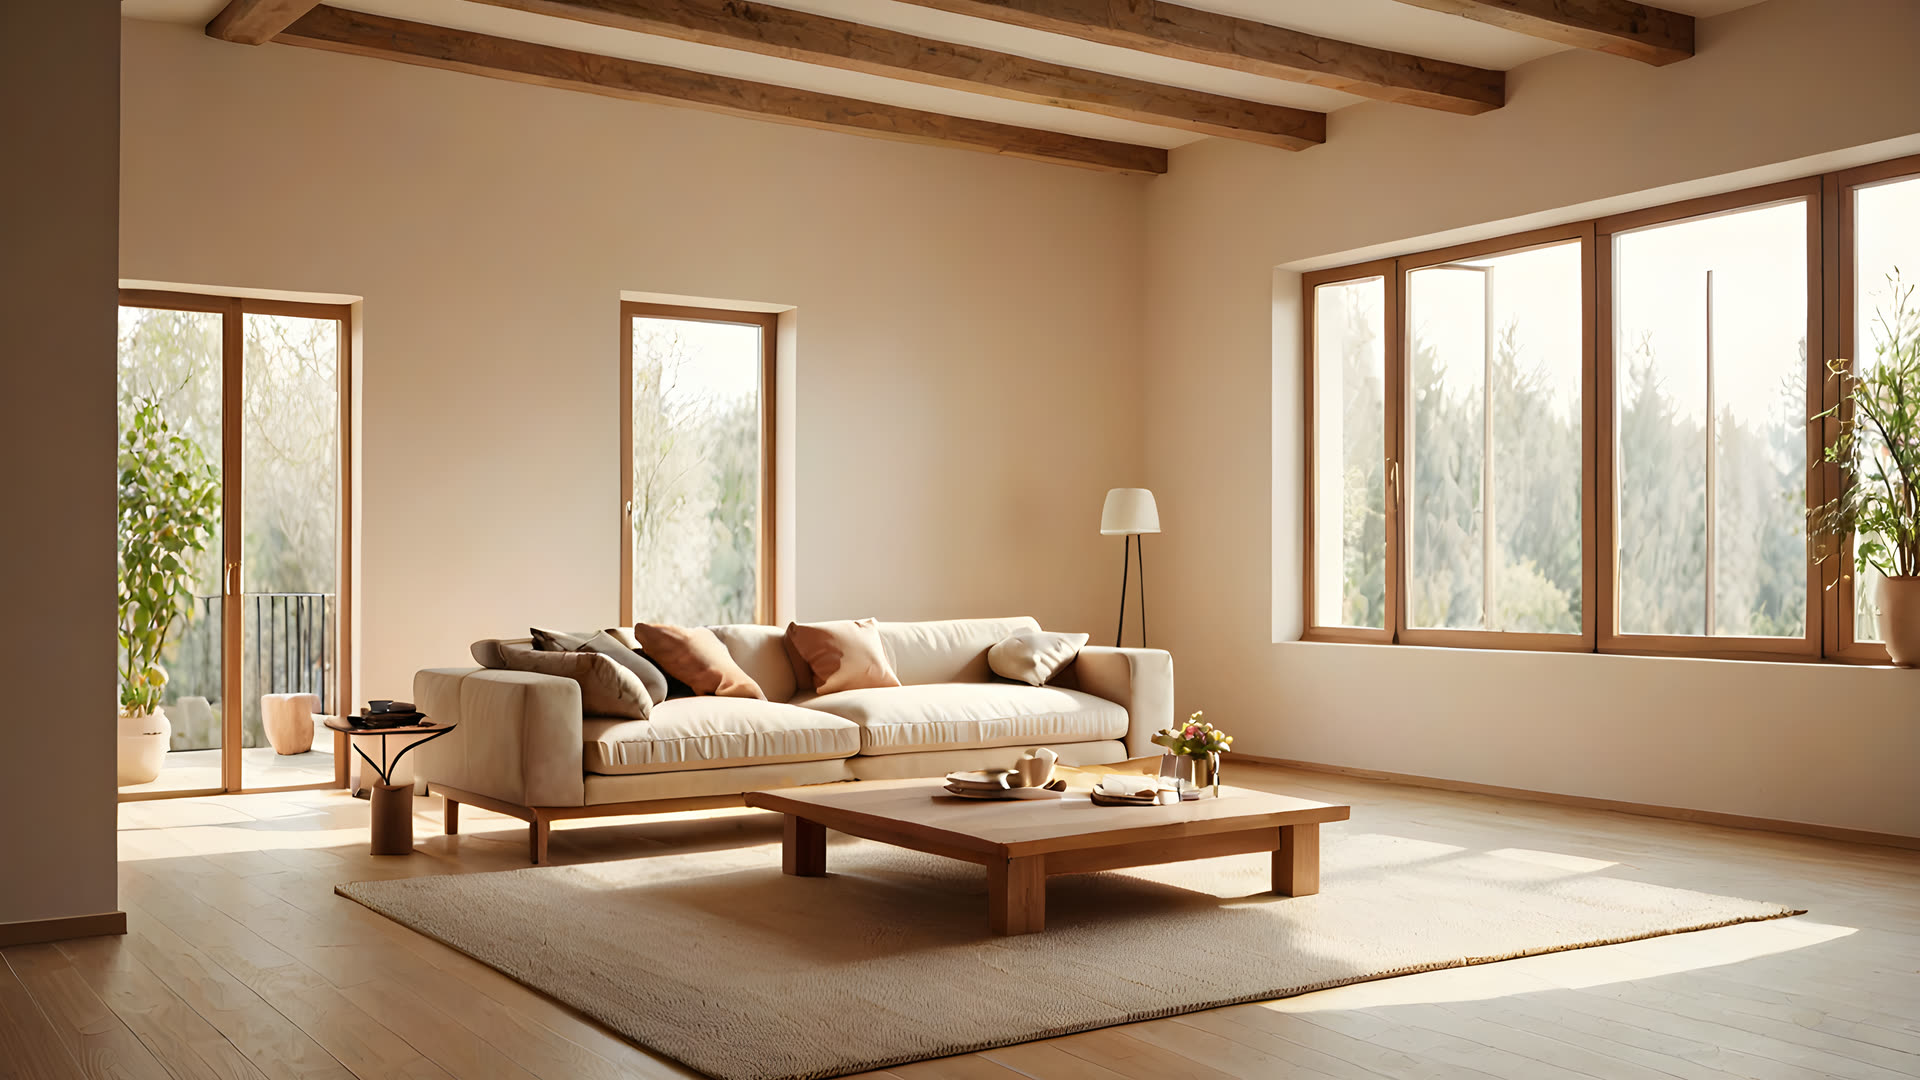
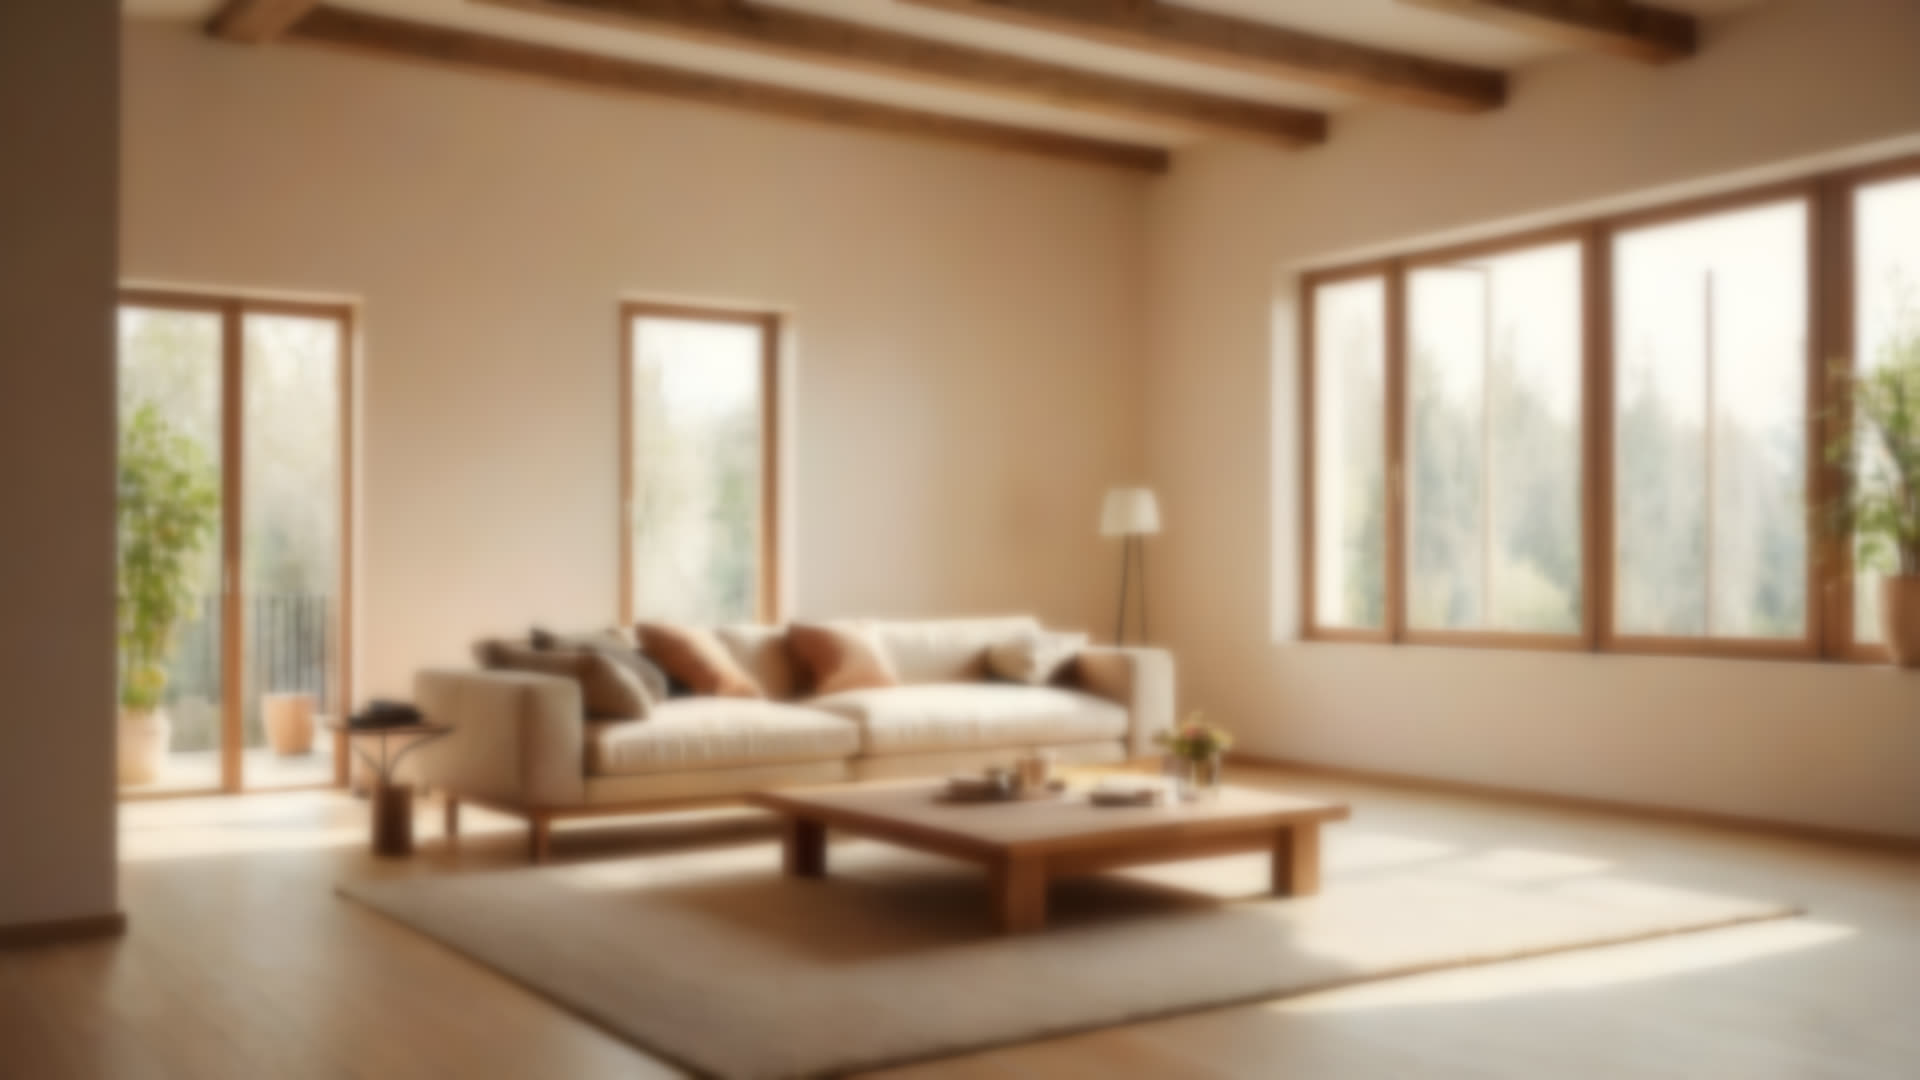
ORB Version 159: Chart schließt beim Tab-Wechsel sofort, weniger Speicher und Grafiklast

diff --git a/dash.css b/dash.css
@@ -23,7 +23,7 @@ html[data-modus="dunkel"] { --d-ink:#f5f1ee; --d-sub:rgba(245,241,238,.58); --d-
 body.dash #left, body.dash #right, body.dash #dock, body.dash #island { display:none !important; }
 #dbg, #dash { display:none; }
 body.dash #dbg { display:block; position:fixed; inset:-40px; z-index:0; background:#cdb8a5 url('/dash/dash_hintergrund.jpg') center/cover no-repeat;
-  filter:blur(6px) var(--d-bgfilter) var(--d-bgmod, brightness(1)); transform:translate(var(--d-px,0), var(--d-py,0)) scale(1.04); transition:transform 1.2s var(--d-ease), filter .9s var(--d-ease); }
+  filter:var(--d-bgfilter) var(--d-bgmod, brightness(1));   /* Unschärfe ist ins Bild eingerechnet (spart Grafikleistung) */ transform:translate(var(--d-px,0), var(--d-py,0)) scale(1.04); transition:transform 1.2s var(--d-ease), filter .9s var(--d-ease); }
 body.dash #dbg::after { content:''; position:absolute; inset:0; background:radial-gradient(120% 80% at 50% 0%, transparent, rgba(40,22,12,.18)); }
 body.dash #gl { z-index:3; mix-blend-mode:screen; pointer-events:none; }
 body.dash #fx { z-index:4; mix-blend-mode:screen; }

diff --git a/dash.js b/dash.js
@@ -226,6 +226,7 @@
   // ---------- Seiten ----------
   function geh(s) {
     seite = s;
+    if (s !== 'trading' && typeof tvLage === 'function') { tvLetzt = ''; tvLage(); }   // Chart sofort weg, nicht erst bei der nächsten Abfrage
     document.querySelectorAll('#d-rail [data-s]').forEach(b => b.classList.toggle('an', b.dataset.s === s));
     document.querySelectorAll('.d-seite').forEach(x => x.classList.toggle('an', x.dataset.s === s));
     if (s === 'trading' && !$d('d-chart').firstChild) quelleSetzen(tvQuelle);

diff --git a/tvfenster.py b/tvfenster.py
@@ -35,9 +35,10 @@ def orb_fenster():
 def steuern(win):
     skala = (u.GetDpiForSystem() or 96) / 96.0
     alt, sichtbar, besitzer = None, False, None
+    versteckt_seit = time.time()
     hwnd = None
     while True:
-        time.sleep(0.12)
+        time.sleep(0.05)
         try:
             with open(LAGE, encoding="utf-8") as f:
                 L = json.load(f)
@@ -70,6 +71,10 @@ def steuern(win):
         elif sichtbar:
             win.hide()
             sichtbar = False
+            versteckt_seit = time.time()
+        if not sichtbar and time.time() - versteckt_seit > 180:   # 3 Min. nicht gebraucht → beenden, gibt ~700 MB frei
+            win.destroy()
+            return
 
 
 if __name__ == "__main__":

diff --git a/server.py b/server.py
@@ -77,7 +77,7 @@ DEFAULT_CFG = {
 }
 # Damit ORB immer dein Claude-Code-Login (Max-Abo) nutzt und nie einen API-Schlüssel
 CLAUDE_ENV_DROP = ("ANTHROPIC_API_KEY", "ANTHROPIC_AUTH_TOKEN", "ANTHROPIC_BASE_URL")
-VERSION = "158"
+VERSION = "159"
 ORB_UI = ("Deine Oberfläche (die Larsen gerade sieht): in der Mitte du als flüssige leuchtende Kugel mit Tropfen, "
           "Orbit-Ringen und Sternenhimmel; links eine Uhr und darunter der Gesprächsverlauf mit Eingabefeld; rechts "
           "Karten für System (CPU, RAM, Akku), Wetter mit Stundenvorschau, Aktivität (was du gerade tust) und Vorschläge; "
